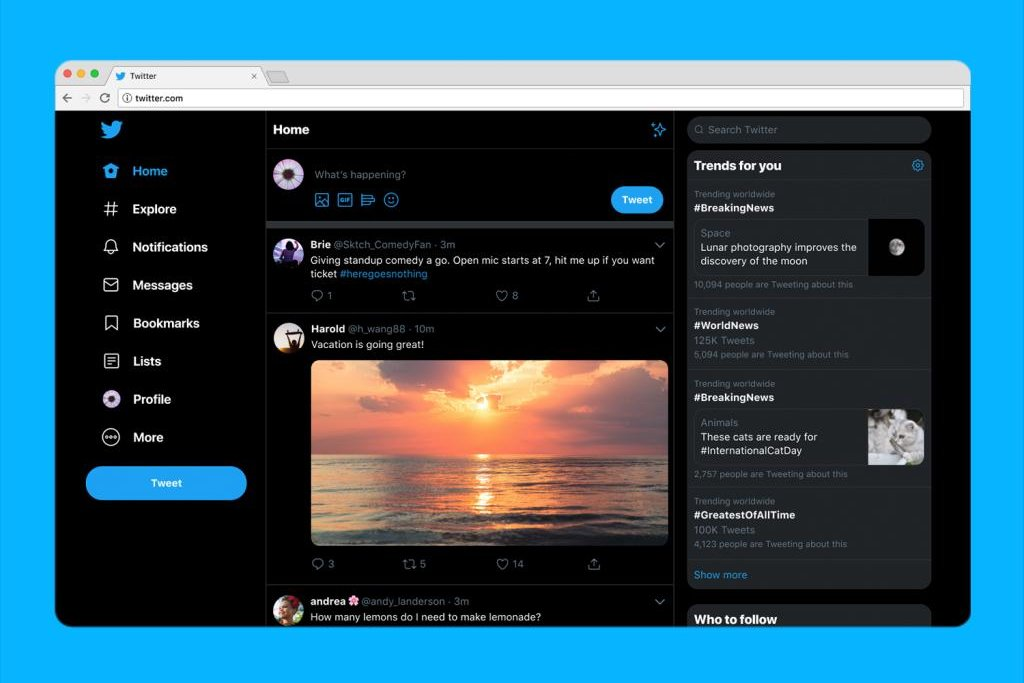
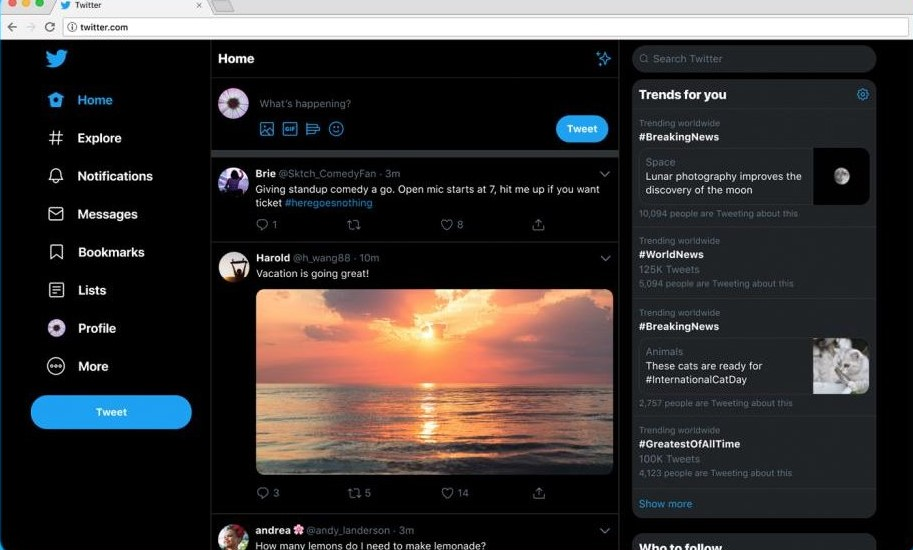
fix whatsapp && clipboard

diff --git a/src/Introduction/Nav.jsx b/src/Introduction/Nav.jsx
@@ -1,35 +1,69 @@
-import React from "react";
-import {Navbar,NavbarContent, NavbarItem, Link, Button} from "@nextui-org/react";
+import React, { useState, useEffect } from "react";
+import { Navbar, NavbarContent, NavbarItem, Link, Button } from "@nextui-org/react";
 import { FaLinkedin } from "react-icons/fa6";
 import { FaTwitterSquare } from "react-icons/fa";
 import { FaInstagramSquare } from "react-icons/fa";
+import { FaClipboard } from "react-icons/fa";
+import { IoCheckmarkDone } from "react-icons/io5";
+
 export default function Nav() {
+  const [copied, setCopied] = useState(false);
+
+  const handleCopy = () => {
+    navigator.clipboard.writeText("chiragnayak251002@gmail.com")
+      .then(() => {
+        setCopied(true);
+      })
+      .catch(err => {
+        console.error('Failed to copy: ', err);
+      });
+  };
+
+  useEffect(() => {
+    if (copied) {
+      const timer = setTimeout(() => setCopied(false), 5000);
+      return () => clearTimeout(timer);
+    }
+  }, [copied]);
+
   return (
-  <Navbar className="w-full flex justify-between p-4">
-  <NavbarContent className="hidden sm:flex gap-4">
-    <NavbarItem>
-      <p className="text-sm text-gray-300">chiragnayak251002@gmail.com</p>
-    </NavbarItem>
-    <NavbarItem>
-      <a href="https://drive.google.com/file/d/1YZDU9qN1xRhhaxsblLJ_niJA-f6Aw76q/view?usp=sharing" className="bg-white text-black rounded-3xl p-2 cursor-pointer text-sm">Resume</a>
-    </NavbarItem>
-    <NavbarItem>
-    <p className="bg-white text-black rounded-3xl p-2 cursor-pointer text-sm">Projects</p>
-    </NavbarItem>
-  </NavbarContent>
-  <NavbarContent >
-    <NavbarItem className="flex gap-4">
-      <Button as={Link} color="primary" href="https://www.linkedin.com/in/chirag-nayak-b4b88b247/" variant="flat" className="mr-2">
-      <FaLinkedin size={28}/> 
-      </Button>
-      <Button as={Link} color="primary" href="https://x.com/ChiragNaya2626" variant="flat" className="mr-2">
-      <FaTwitterSquare size={28}/> 
-      </Button>
-      <Button as={Link} color="primary" href="https://www.instagram.com/chirag_nayak2510/" variant="flat" className="mr-2">
-        <FaInstagramSquare size={28}/> 
-      </Button>
-    </NavbarItem>
-  </NavbarContent>
-</Navbar>
+    <Navbar className="w-full flex justify-between p-4">
+      <NavbarContent className="hidden sm:flex gap-4">
+        <NavbarItem>
+          <div className="flex gap-2 justify-center items-center">
+            <p className="text-sm text-gray-300">chiragnayak251002@gmail.com</p>
+            {copied ? (
+              <IoCheckmarkDone size={14} className="text-green-500" />
+            ) : (
+              <FaClipboard size={16} className="cursor-pointer" onClick={handleCopy} />
+            )}
+          </div>
+        </NavbarItem>
+        <NavbarItem>
+          <a
+            href="https://drive.google.com/file/d/1YZDU9qN1xRhhaxsblLJ_niJA-f6Aw76q/view?usp=sharing"
+            className="bg-white text-black rounded-3xl p-2 cursor-pointer text-sm"
+          >
+            Resume
+          </a>
+        </NavbarItem>
+        <NavbarItem>
+          <p className="bg-white text-black rounded-3xl p-2 cursor-pointer text-sm">Projects</p>
+        </NavbarItem>
+      </NavbarContent>
+      <NavbarContent>
+        <NavbarItem className="flex gap-4">
+          <Button as={Link} color="primary" href="https://www.linkedin.com/in/chirag-nayak-b4b88b247/" variant="flat" className="mr-2">
+            <FaLinkedin size={28} />
+          </Button>
+          <Button as={Link} color="primary" href="https://x.com/ChiragNaya2626" variant="flat" className="mr-2">
+            <FaTwitterSquare size={28} />
+          </Button>
+          <Button as={Link} color="primary" href="https://www.instagram.com/chirag_nayak2510/" variant="flat" className="mr-2">
+            <FaInstagramSquare size={28} />
+          </Button>
+        </NavbarItem>
+      </NavbarContent>
+    </Navbar>
   );
 }

diff --git a/src/ProjectSection/Projects.jsx b/src/ProjectSection/Projects.jsx
@@ -12,7 +12,7 @@ const Projects = () => {
           link="https://github.com/ChiragNayak2510/Skittles.git"
         />
         <ProjectItem
-          image="path/to/cover-image2.jpg"
+          image="movieCover.png"
           title="MovieReview"
           link="https://github.com/ChiragNayak2510/MovieReview.git"
         />
